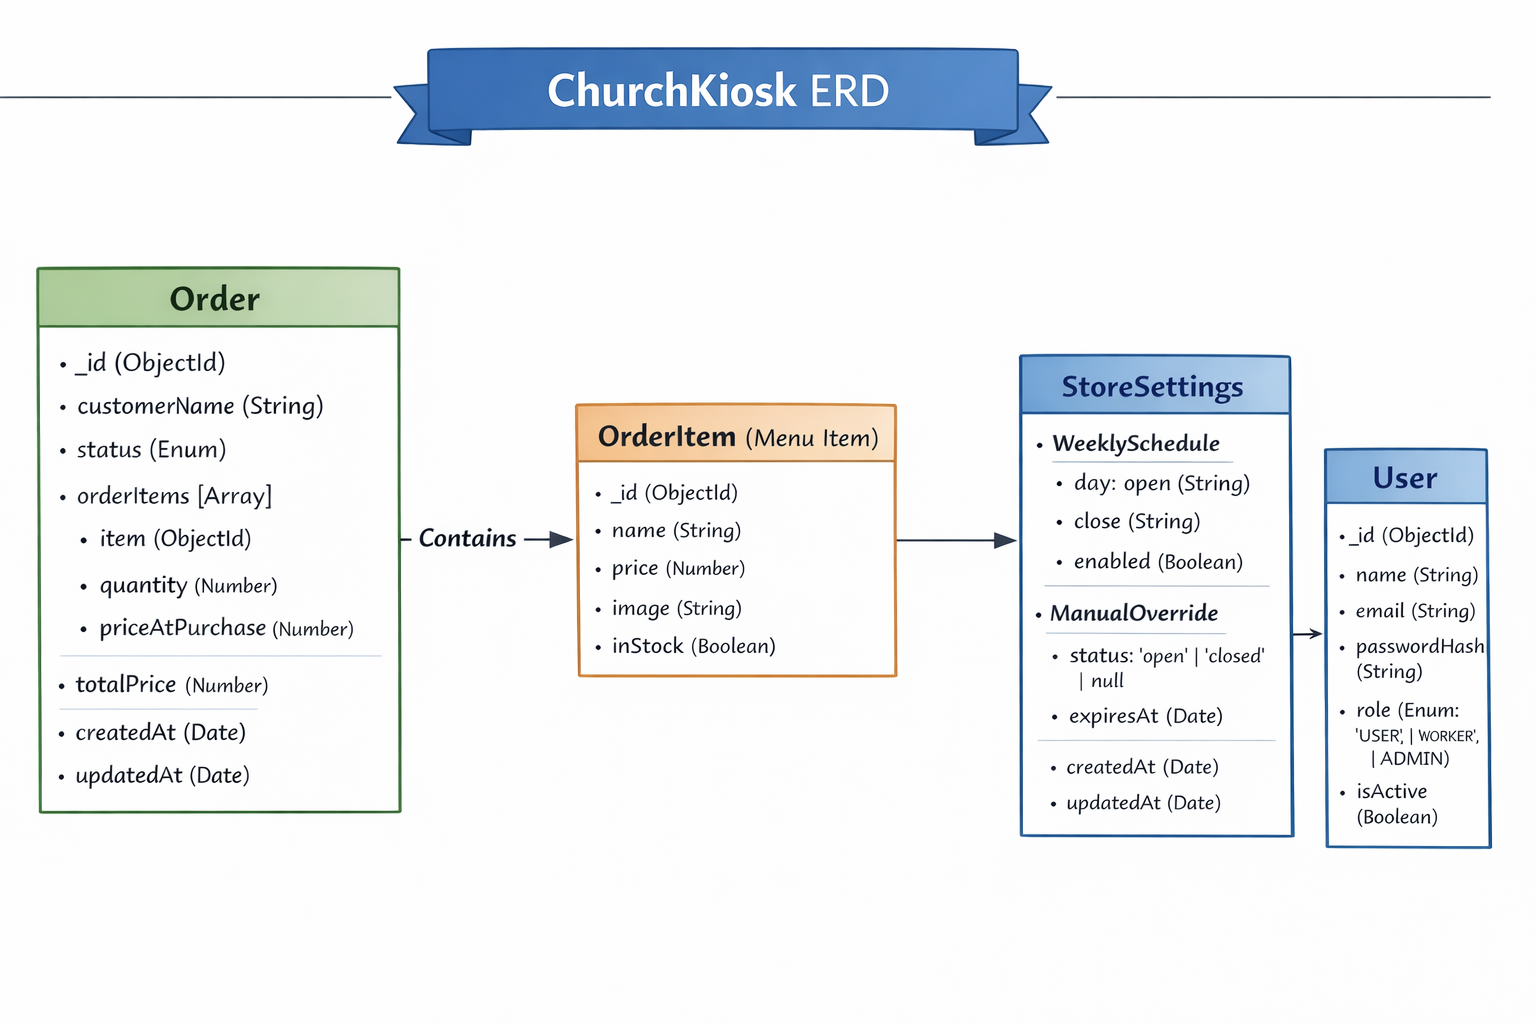
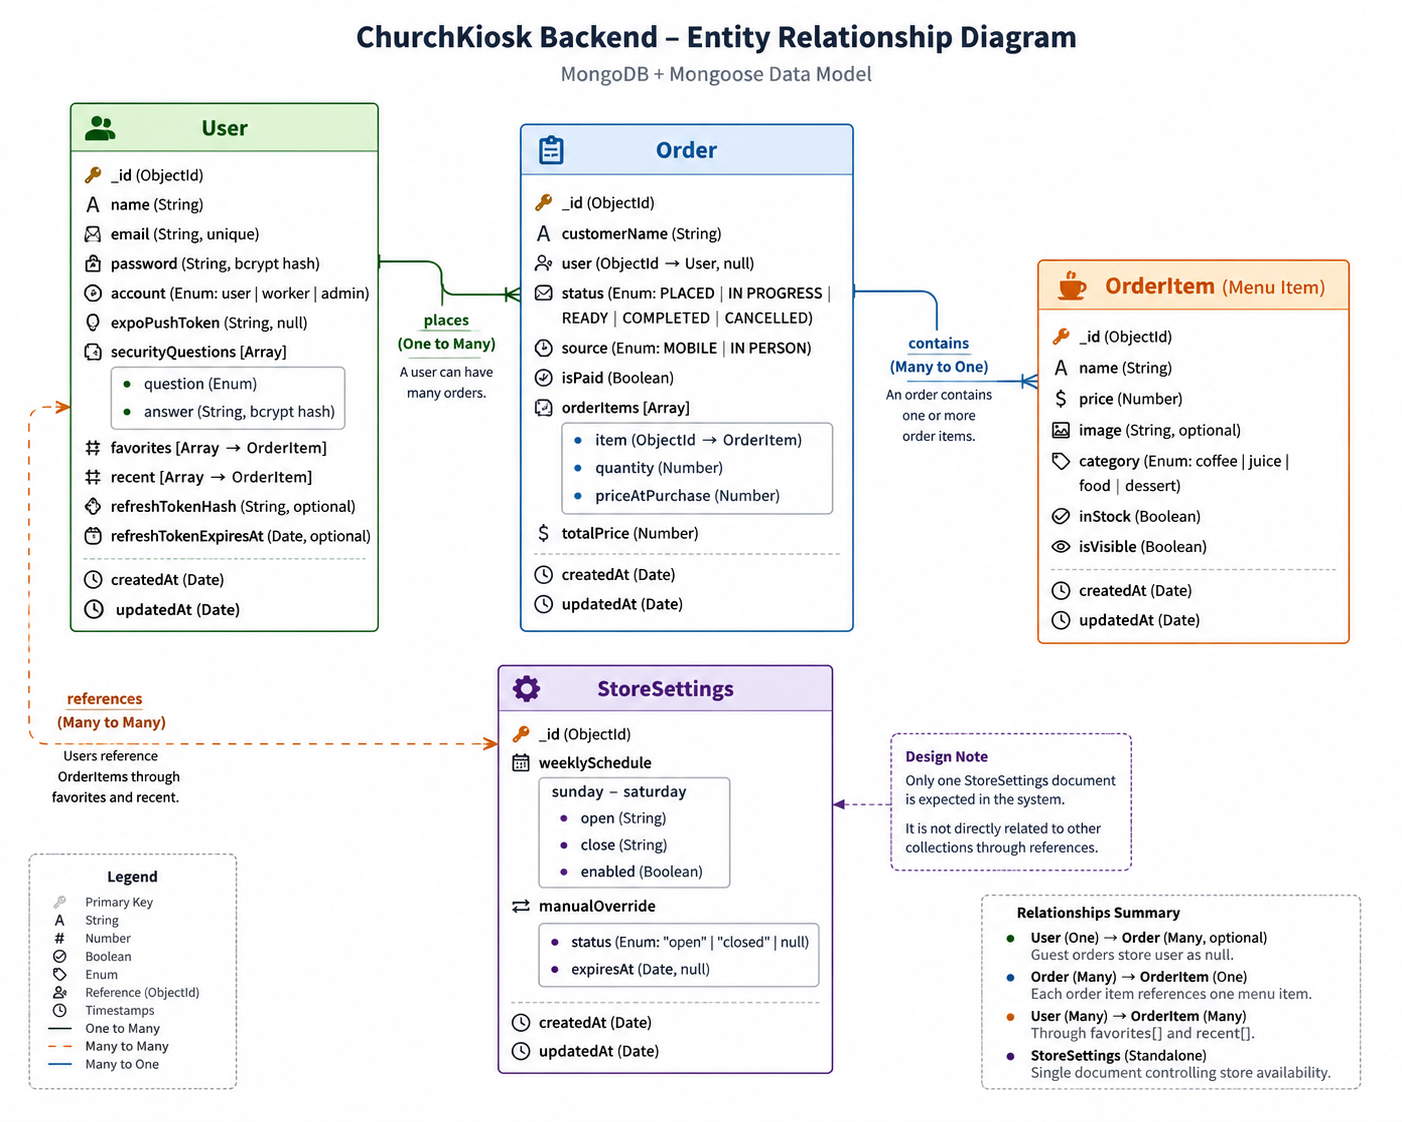
updating docs

diff --git a/docs/backend/ERD.md b/docs/backend/ERD.md
@@ -8,7 +8,10 @@ Order
 ------------------------------------------------------
 _id (ObjectId)
 customerName (String)
+user (ObjectId → User | null)
 status (Enum)
+source (Enum: MOBILE | IN PERSON)
+isPaid (Boolean)
 orderItems [Array]
   ├─ item (ObjectId → OrderItem)
   ├─ quantity (Number)
@@ -17,9 +20,13 @@ totalPrice (Number)
 createdAt
 updatedAt
 
-Relationship:
+Relationships:
 Order (Many) → OrderItem (One)
 An Order references multiple OrderItems.
+
+Order (Many) → User (One, optional)
+An authenticated customer's order references the User who placed it.
+Guest orders store user as null.
 
 ------------------------------------------------------
 
@@ -29,7 +36,9 @@ _id (ObjectId)
 name (String)
 price (Number)
 image (String)
+category (Enum: coffee | juice | food | dessert)
 inStock (Boolean)
+isVisible (Boolean)
 createdAt
 updatedAt
 
@@ -62,5 +71,31 @@ updatedAt
 
 Design Note:
 Only one StoreSettings document is expected in the system.
+
+------------------------------------------------------
+
+User
+------------------------------------------------------
+_id (ObjectId)
+name (String)
+email (String)
+password (String)
+account (Enum: user | worker | admin)
+expoPushToken (String | null)
+securityQuestions [Array]
+favorites [Array → OrderItem]
+recent [Array → OrderItem]
+refreshTokenHash (String, optional)
+refreshTokenExpiresAt (Date, optional)
+createdAt
+updatedAt
+
+Relationships:
+User (One) ← Order (Many, optional)
+An authenticated customer's orders reference the User who placed them.
+Guest orders store user as null.
+
+User (Many) → OrderItem (Many)
+Users may reference OrderItems through favorites and recent purchases.
 
 ![ChurchKiosk ERD](ERD.png)
